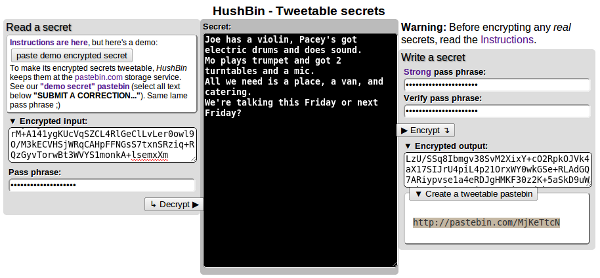
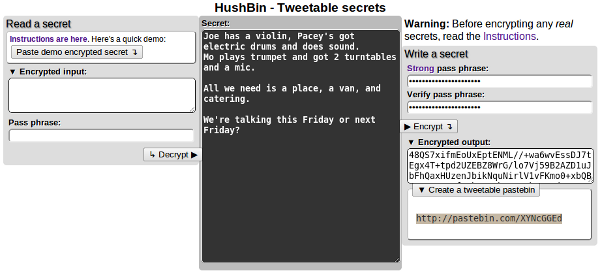
Keyboard handlers should now work on most browsers
New screenshots

diff --git a/index.html b/index.html
@@ -47,7 +47,7 @@ font-family:"Lucida Console","Courier New",monospace}
 </style>
 <script type="text/javascript">
 //<![CDATA[
[2 lines of base64/hex data omitted]
 function str2bin(s){
 // utf-16=>utf-8=>binary-array
 var result=new Array();
@@ -107,7 +107,7 @@ shift = (shift + 2) % 8}}
 return res}
 //== crypto ==
 function make_iv(){
-// Generate a random 10 byte initialization vector (binary array)
+// Generate a random 10 byte iv
 var result=new Array();
 for (var i=0 ; i<10 ; i++)
 result[i]=256 * Math.random();
@@ -172,7 +172,8 @@ show_msg("Encrypt something first.");
 return false}
 // kb handlers
 function nop(){return false};
-function run_if_enter(f){if (window.event && window.event.keyCode==13){return f() && false}; return true}
+function run_if_enter(e,f){var k=0;try{k=e.which}catch(E){try{k=e.keyCode}catch(E){}};
+if (k==13){return f() && false}; return true}
 // onload
 function init(){
 $$('pb_form').target='pb_result';linx=document.getElementsByTagName('a');
@@ -199,7 +200,7 @@ HushBin - Tweetable secrets</div>
 <div>
 <textarea tabindex="1" id="in-cipher" cols="5" rows="3" class="maxWidth noScrollBar" onclick="this.select()"></textarea></div>
 <div class="formLabel">Pass phrase:</div>
-<div><input tabindex="2" class="maxWidth" type="password" id="in-key" onkeypress="run_if_enter(do_decrypt)"/></div>
+<div><input tabindex="2" class="maxWidth" type="password" id="in-key" onkeypress="run_if_enter(event,do_decrypt)"/></div>
 <div class="decButton">
 <input tabindex="3" onclick="do_decrypt()" type="button" value="&#8627; Decrypt &#9654;"/></div></div></div></div></div></div>
 <div class="rightCol">
@@ -213,11 +214,11 @@ HushBin - Tweetable secrets</div>
 <div><input tabindex="5" class="maxWidth" type="password" id="out-key"/></div>
 <div class="formLabel">Verify pass phrase:</div>
 <div><input tabindex="6" class="maxWidth" type="password" id="out-key-verify"
-onkeypress="return run_if_enter(do_encrypt)"/></div>
+onkeypress="return run_if_enter(event,do_encrypt)"/></div>
 <div class="encButton">
 <input tabindex="7" onclick="do_encrypt()" type="button" value="&#9654; Encrypt &#8628;"/></div></div></div>
 <div class="line"><div class="unit size1of1 lastUnit">
-<form id="pb_form" method="post" action="http://pastebin.com/api_public.php" onkeypress="return run_if_enter(nop)" onsubmit="return validate_pastebin_form()" name="pb_form">
+<form id="pb_form" method="post" action="http://pastebin.com/api_public.php" onkeypress="return run_if_enter(event,nop)" onsubmit="return validate_pastebin_form()" name="pb_form">
 <div class="formLabel">&#9660; Encrypted output:</div>
 <div><textarea tabindex="8" name="paste_code" id="out-cipher" cols="5" rows="3" class="maxWidth noScrollBar"
 readonly="readonly" onclick="this.select()"></textarea></div>

diff --git a/tidy.html b/tidy.html
@@ -52,7 +52,7 @@
   </style>
   <script type="text/javascript">
 //<![CDATA[
[2 lines of base64/hex data omitted]
   function str2bin(s){
   // utf-16=>utf-8=>binary-array
   var result=new Array();
@@ -112,7 +112,7 @@
   return res}
   //== crypto ==
   function make_iv(){
-  // Generate a random 10 byte initialization vector (binary array)
+  // Generate a random 10 byte iv
   var result=new Array();
   for (var i=0 ; i<10 ; i++)
   result[i]=256 * Math.random();
@@ -177,7 +177,8 @@
   return false}
   // kb handlers
   function nop(){return false};
-  function run_if_enter(f){if (window.event && window.event.keyCode==13){return f() && false}; return true}
+  function run_if_enter(e,f){var k=0;try{k=e.which}catch(E){try{k=e.keyCode}catch(E){}};
+  if (k==13){return f() && false}; return true}
   // onload
   function init(){
   $$('pb_form').target='pb_result';linx=document.getElementsByTagName('a');
@@ -230,7 +231,7 @@
                 <div>
                   <input tabindex="2" class="maxWidth" type=
                   "password" id="in-key" onkeypress=
-                  "run_if_enter(do_decrypt)">
+                  "run_if_enter(event,do_decrypt)">
                 </div>
 
                 <div class="decButton">
@@ -278,7 +279,7 @@
                 <div>
                   <input tabindex="6" class="maxWidth" type=
                   "password" id="out-key-verify" onkeypress=
-                  "return run_if_enter(do_encrypt)">
+                  "return run_if_enter(event,do_encrypt)">
                 </div>
 
                 <div class="encButton">
@@ -292,7 +293,7 @@
               <div class="unit size1of1 lastUnit">
                 <form id="pb_form" method="post" action=
                 "http://pastebin.com/api_public.php" onkeypress=
-                "return run_if_enter(nop)" onsubmit=
+                "return run_if_enter(event,nop)" onsubmit=
                 "return validate_pastebin_form()" name="pb_form">
                   <div class="formLabel">
                     ▼ Encrypted output:
